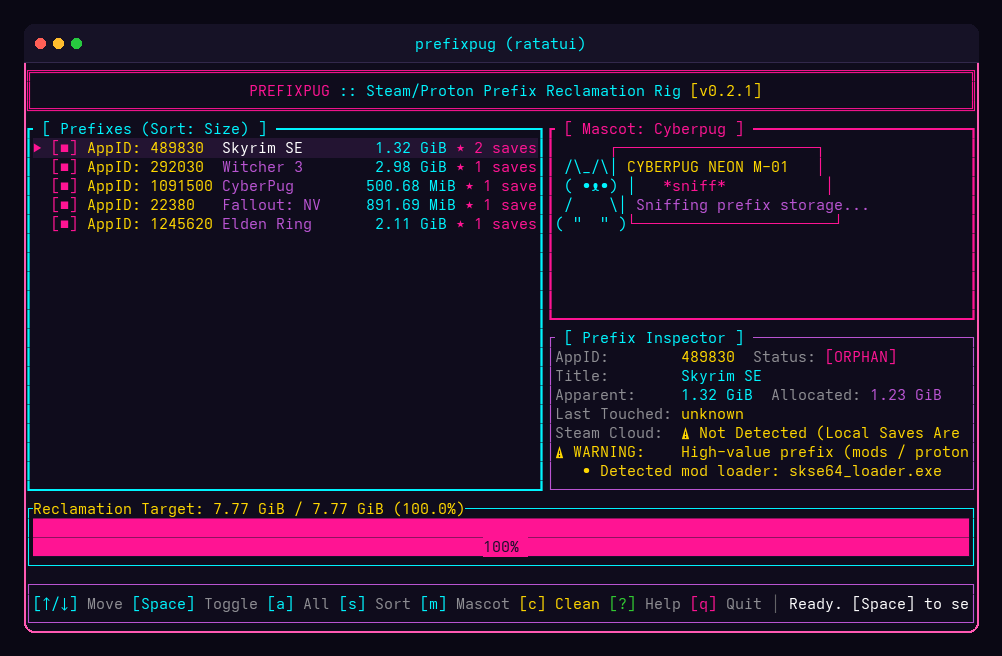
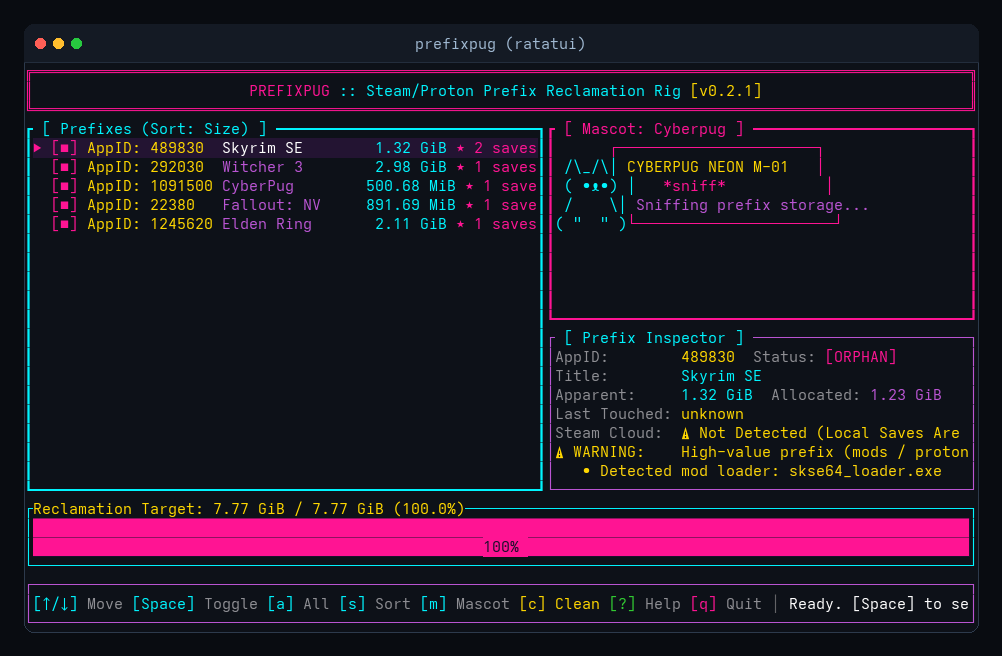
docs: point README to prefixpug_tui_demo.gif to bust browser cache and modernize terminal styling

Changed region(s): [[0.4022, 0.061, 0.495, 0.0915], [0.5259, 0.061, 0.5878, 0.0915], [0.0309, 0.9451, 0.0619, 0.9756]]

diff --git a/scripts/generate_media.py b/scripts/generate_media.py
@@ -28,8 +28,8 @@ def render_frame_to_image(json_path):
     img_width = term_width + PADDING * 2
     img_height = term_height + HEADER_HEIGHT + PADDING * 2
 
-    # Cyberpunk dark background with subtle violet glow
-    img = Image.new("RGBA", (img_width, img_height), (10, 8, 20, 255))
+    # Modern developer terminal dark background
+    img = Image.new("RGBA", (img_width, img_height), (9, 12, 17, 255))
     draw = ImageDraw.Draw(img)
 
     # Window body
@@ -39,12 +39,12 @@ def render_frame_to_image(json_path):
     win_y1 = img_height - PADDING
 
     # Rounded terminal window background
-    draw.rounded_rectangle([win_x0, win_y0, win_x1, win_y1], radius=10, fill=(15, 12, 28, 255), outline=(255, 20, 147, 180), width=2)
+    draw.rounded_rectangle([win_x0, win_y0, win_x1, win_y1], radius=10, fill=(13, 17, 24, 255), outline=(45, 58, 76, 255), width=1)
 
     # Titlebar
-    draw.rounded_rectangle([win_x0, win_y0, win_x1, win_y0 + HEADER_HEIGHT], radius=10, fill=(22, 18, 38, 255))
-    draw.rectangle([win_x0, win_y0 + HEADER_HEIGHT - 6, win_x1, win_y0 + HEADER_HEIGHT], fill=(22, 18, 38, 255))
-    draw.line([win_x0, win_y0 + HEADER_HEIGHT, win_x1, win_y0 + HEADER_HEIGHT], fill=(50, 40, 75, 255), width=1)
+    draw.rounded_rectangle([win_x0, win_y0, win_x1, win_y0 + HEADER_HEIGHT], radius=10, fill=(20, 26, 36, 255))
+    draw.rectangle([win_x0, win_y0 + HEADER_HEIGHT - 6, win_x1, win_y0 + HEADER_HEIGHT], fill=(20, 26, 36, 255))
+    draw.line([win_x0, win_y0 + HEADER_HEIGHT, win_x1, win_y0 + HEADER_HEIGHT], fill=(35, 45, 60, 255), width=1)
 
     # Window control dots
     dots = [
@@ -58,7 +58,7 @@ def render_frame_to_image(json_path):
     # Window title
     title = "prefixpug (ratatui)"
     title_w = draw.textlength(title, font=font)
-    draw.text((win_x0 + (term_width - title_w) // 2, win_y0 + 10), title, font=font, fill=(0, 245, 255))
+    draw.text((win_x0 + (term_width - title_w) // 2, win_y0 + 10), title, font=font, fill=(160, 185, 210))
 
     # Render terminal cells
     grid_x0 = win_x0
@@ -74,7 +74,7 @@ def render_frame_to_image(json_path):
         px = grid_x0 + x * CHAR_WIDTH
         py = grid_y0 + y * CHAR_HEIGHT
 
-        if bg != (15, 12, 28):
+        if bg != (13, 17, 24):
             draw.rectangle([px, py, px + CHAR_WIDTH, py + CHAR_HEIGHT], fill=bg)
 
         if ch and ch != " ":
@@ -120,10 +120,19 @@ def main():
         loop=0,
         optimize=True
     )
+    gif_frames[0].save(
+        "/home/papab/Projects/prefixpug/assets/prefixpug_tui_demo.gif",
+        save_all=True,
+        append_images=gif_frames[1:],
+        duration=120,
+        loop=0,
+        optimize=True
+    )
     print("✓ Successfully generated:")
     print("  - assets/prefixpug_tui.png")
     print("  - assets/prefixpug_modal.png")
     print("  - assets/prefixpug_demo.gif")
+    print("  - assets/prefixpug_tui_demo.gif")
 
 if __name__ == "__main__":
     main()

diff --git a/examples/render_tui_frames.rs b/examples/render_tui_frames.rs
@@ -28,7 +28,7 @@ struct RenderFrame {
 fn color_to_rgb(c: ratatui::style::Color) -> (u8, u8, u8) {
     match c {
         ratatui::style::Color::Rgb(r, g, b) => (r, g, b),
-        ratatui::style::Color::Black => (15, 12, 28),
+        ratatui::style::Color::Black => (13, 17, 24),
         ratatui::style::Color::Red => (255, 69, 58),
         ratatui::style::Color::Green => (50, 205, 50),
         ratatui::style::Color::Yellow => (255, 215, 0),
@@ -62,7 +62,7 @@ fn capture_frame(terminal: &mut Terminal<TestBackend>, app: &App) -> RenderFrame
             let cell = buf.cell((x, y)).expect("cell");
             let fg = color_to_rgb(cell.fg);
             let bg = match cell.bg {
-                ratatui::style::Color::Reset => (15, 12, 28),
+                ratatui::style::Color::Reset => (13, 17, 24),
                 c => color_to_rgb(c),
             };
             cells.push(RenderCell {

diff --git a/README.md b/README.md
@@ -55,7 +55,7 @@ PrefixPug includes an interactive terminal dashboard built with `ratatui`:
 
 <div align="center">
 
-![PrefixPug Interactive TUI Demo](assets/prefixpug_demo.gif)
+![PrefixPug Interactive TUI Demo](assets/prefixpug_tui_demo.gif)
 
 </div>
 
